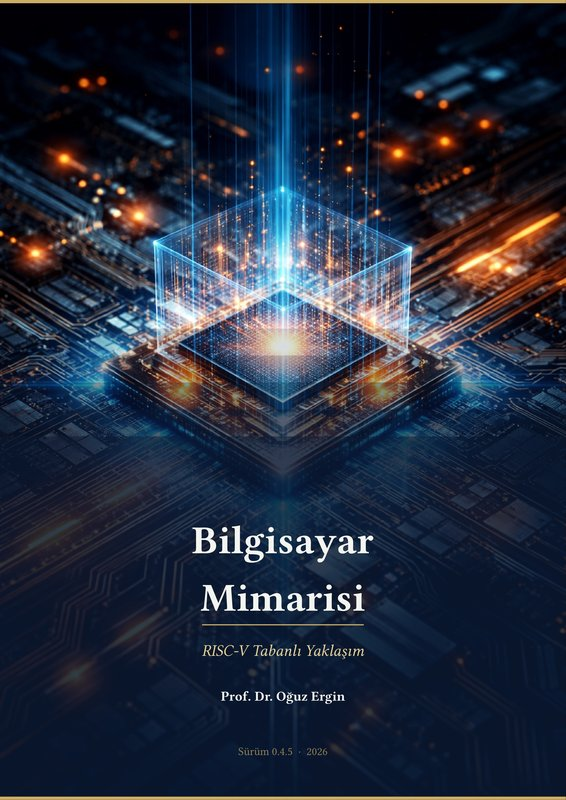
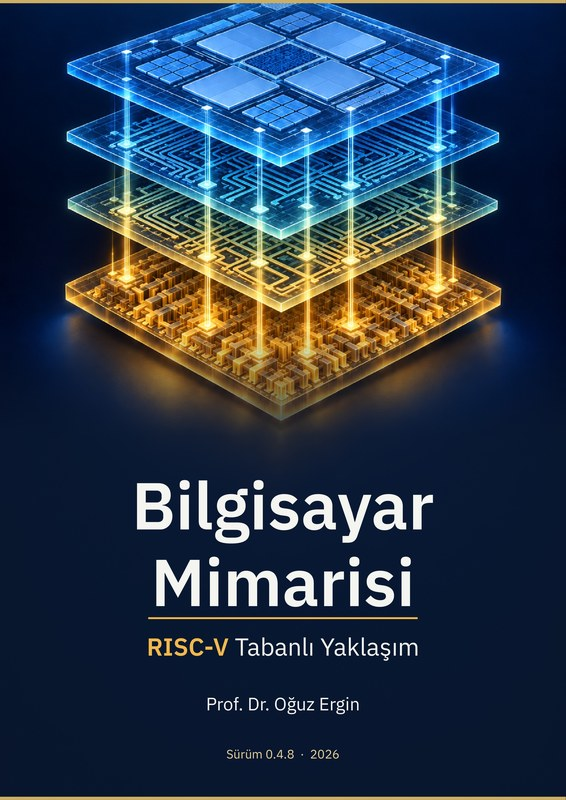
Bilgisayar Mimarisi kitap kapagi yeni kapakla guncellendi

diff --git a/index.html b/index.html
@@ -151,7 +151,7 @@
     </div>
     <div class="proje-serit">
       <a class="proje-serit-oge" href="https://bilgisayar-mimarisi.oguzergin.net" target="_blank" rel="noopener">
-        <img class="serit-thumb" src="assets/img/kitap-bilgisayar-mimarisi-kapak.jpg" alt="Bilgisayar Mimarisi kitabının kapağı" loading="lazy">
+        <img class="serit-thumb" src="assets/img/kitap-bilgisayar-mimarisi-kapak.jpg?v=2" alt="Bilgisayar Mimarisi kitabının kapağı" loading="lazy">
         <strong>Bilgisayar Mimarisi</strong><span>Türkçe ilk RISC-V ders kitabı, ücretsiz</span></a>
       <a class="proje-serit-oge" href="https://yapayzeka.oguzergin.net" target="_blank" rel="noopener">
         <img class="serit-thumb" src="assets/img/proje-thumbs/yapayzeka-cizelgesi.jpg?v=3" alt="Yapay Zekâ Çizelgeleri ekran görüntüsü" loading="lazy">

diff --git a/calismalar.html b/calismalar.html
@@ -79,7 +79,7 @@
 
   <article class="book">
     <a href="https://bilgisayar-mimarisi.oguzergin.net">
-      <img src="assets/img/kitap-bilgisayar-mimarisi-kapak.jpg" alt="Bilgisayar Mimarisi: RISC-V Tabanlı Yaklaşım: kapak">
+      <img src="assets/img/kitap-bilgisayar-mimarisi-kapak.jpg?v=2" alt="Bilgisayar Mimarisi: RISC-V Tabanlı Yaklaşım: kapak">
     </a>
     <h3>Bilgisayar Mimarisi: RISC-V Tabanlı Yaklaşım</h3>
     <p class="meta">2026 · 401 sf · CC BY-NC-ND 4.0 · ISBN 978-625-00-6081-0</p>
